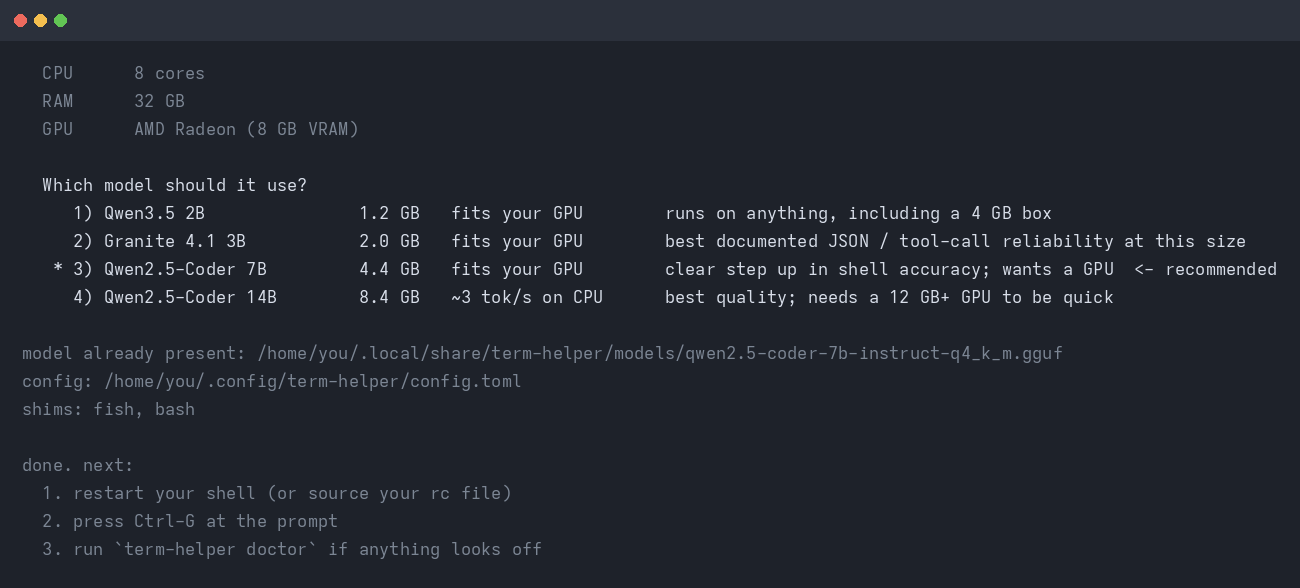
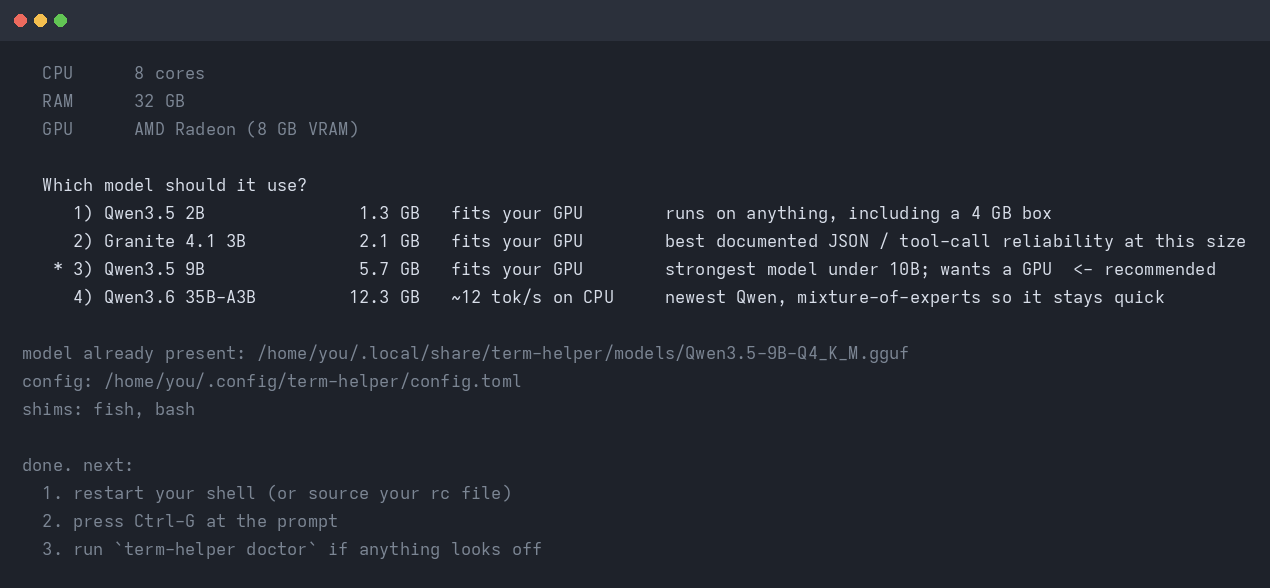
Refresh the model catalog to current releases
Qwen2.5-Coder is two generations old (Nov 2024). Replace it:
- medium: Qwen3.5 9B (Q4_K_M, 5.7 GB), the strongest model under 10B
- large: Qwen3.6 35B-A3B (UD-Q2_K_XL, 12.3 GB), newest Qwen, MoE
- tiny/small stay (Qwen3.5 2B, Granite 4.1 3B); sizes corrected

Also:
- disable the Qwen3.5/3.6 thinking mode with "--reasoning off" in the
  generated config, so it does not eat the token budget
- estimate() now uses active weights, so the MoE shows a realistic CPU rate
- generate the setup screenshot against a throwaway HOME: it downloads
  nothing and touches no real config, shims or systemd units

diff --git a/term_helper/setup.py b/term_helper/setup.py
@@ -29,7 +29,7 @@ CATALOG: list[dict] = [
         "name": "Qwen3.5 2B",
         "repo": "unsloth/Qwen3.5-2B-GGUF",
         "file": "Qwen3.5-2B-Q4_K_M.gguf",
-        "gb": 1.19,
+        "gb": 1.28,
         "ram_gb": 3,
         "vram_gb": 0,
         "note": "runs on anything, including a 4 GB box",
@@ -39,30 +39,31 @@ CATALOG: list[dict] = [
         "name": "Granite 4.1 3B",
         "repo": "ibm-granite/granite-4.1-3b-GGUF",
         "file": "granite-4.1-3b-Q4_K_M.gguf",
-        "gb": 1.96,
+        "gb": 2.10,
         "ram_gb": 4,
         "vram_gb": 0,
         "note": "best documented JSON / tool-call reliability at this size",
     },
     {
         "id": "medium",
-        "name": "Qwen2.5-Coder 7B",
-        "repo": "Qwen/Qwen2.5-Coder-7B-Instruct-GGUF",
-        "file": "qwen2.5-coder-7b-instruct-q4_k_m.gguf",
-        "gb": 4.36,
+        "name": "Qwen3.5 9B",
+        "repo": "unsloth/Qwen3.5-9B-GGUF",
+        "file": "Qwen3.5-9B-Q4_K_M.gguf",
+        "gb": 5.68,
         "ram_gb": 8,
         "vram_gb": 6,
-        "note": "clear step up in shell accuracy; wants a GPU",
+        "note": "strongest model under 10B; wants a GPU",
     },
     {
         "id": "large",
-        "name": "Qwen2.5-Coder 14B",
-        "repo": "Qwen/Qwen2.5-Coder-14B-Instruct-GGUF",
-        "file": "qwen2.5-coder-14b-instruct-q4_k_m.gguf",
-        "gb": 8.37,
+        "name": "Qwen3.6 35B-A3B",
+        "repo": "unsloth/Qwen3.6-35B-A3B-GGUF",
+        "file": "Qwen3.6-35B-A3B-UD-Q2_K_XL.gguf",
+        "gb": 12.29,
+        "active_gb": 2.0,          # mixture-of-experts: ~3B active per token
         "ram_gb": 16,
         "vram_gb": 12,
-        "note": "best quality; needs a 12 GB+ GPU to be quick",
+        "note": "newest Qwen, mixture-of-experts so it stays quick",
     },
 ]
 
@@ -128,7 +129,9 @@ def recommend(specs: Specs) -> str:
 def estimate(specs: Specs, entry: dict) -> str:
     if specs.vram_gb and entry["gb"] <= specs.vram_gb * 0.8:
         return "fits your GPU"
-    rate = 25.0 / entry["gb"]          # rough CPU, memory-bandwidth bound
+    # CPU speed tracks the active weights, which is much smaller for a MoE.
+    weight = entry.get("active_gb", entry["gb"])
+    rate = 25.0 / weight               # rough CPU, memory-bandwidth bound
     return f"~{max(1, round(rate))} tok/s on CPU"
 
 
@@ -245,7 +248,7 @@ search_results = 5
 [server.suggest]
 base_url = "http://127.0.0.1:8080"
 model = "{model_name}"
-extra_args = ["-ngl", "{99 if on_gpu else 0}", "--ctx-size", "{8192 if on_gpu else 4096}"]
+extra_args = ["-ngl", "{99 if on_gpu else 0}", "--ctx-size", "{8192 if on_gpu else 4096}", "--reasoning", "off"]
 
 [models]
 """

diff --git a/tools/screenshots.py b/tools/screenshots.py
@@ -252,20 +252,33 @@ def _anonymize(text: str) -> str:
 
 def shot_setup() -> str:
     import subprocess
+    import tempfile
 
-    from term_helper import config
+    from term_helper import config, setup
 
-    # `setup` rewrites the config; put the user's copy back afterwards.
-    backup = config.CONFIG_PATH.read_bytes() if config.CONFIG_PATH.exists() else None
-    try:
+    real_binary = config.DATA_DIR / "llama.cpp" / "llama-server"
+    with tempfile.TemporaryDirectory() as tmp:
+        # Run setup against a throwaway HOME, so it downloads nothing and never
+        # touches the real config, shims or systemd units.
+        root = Path(tmp) / "home"
+        data = root / ".local" / "share" / "term-helper"
+        (data / "models").mkdir(parents=True)
+        for entry in setup.CATALOG:      # every model looks already present
+            (data / "models" / entry["file"]).write_bytes(b"")
+        (data / "llama.cpp").mkdir()
+        if real_binary.exists():
+            (data / "llama.cpp" / "llama-server").symlink_to(real_binary)
+        env = {
+            **os.environ,
+            "HOME": str(root),
+            "XDG_DATA_HOME": str(root / ".local" / "share"),
+            "XDG_CONFIG_HOME": str(root / ".config"),
+            "XDG_STATE_HOME": str(root / ".local" / "state"),
+            "PYTHONPATH": str(Path(__file__).resolve().parent.parent),
+        }
         proc = subprocess.run([sys.executable, "-m", "term_helper", "setup"],
-                              input="\n", capture_output=True, text=True,
-                              env={**os.environ,
-                                   "PYTHONPATH": str(Path(__file__).resolve().parent.parent)})
-    finally:
-        if backup is not None:
-            config.CONFIG_PATH.write_bytes(backup)
-    return _anonymize(proc.stderr)
+                              input="\n", capture_output=True, text=True, env=env)
+    return _anonymize(proc.stderr.replace(str(root), str(Path.home())))
 
 
 def shot_modes() -> str:

diff --git a/term_helper/config.py b/term_helper/config.py
@@ -71,8 +71,8 @@ search_results = 5
 
 [server.suggest]
 base_url = "http://127.0.0.1:8080"
-model = "qwen2.5-coder-14b"
-extra_args = ["-ngl", "99", "--ctx-size", "8192"]
+model = "Qwen3.6-35B-A3B-UD-Q2_K_XL"
+extra_args = ["-ngl", "99", "--ctx-size", "8192", "--reasoning", "off"]
 
 [models]
 # Explicit overrides, name -> absolute path to a .gguf file:

diff --git a/README.md b/README.md
@@ -116,14 +116,14 @@ Then restart your shell and press `Ctrl+G`.
 
 | | model | file | needs |
 |---|---|---|---|
-| tiny | Qwen3.5 2B | 1.2 GB | any machine, 4 GB RAM |
-| small | Granite 4.1 3B | 2.0 GB | 4 GB RAM |
-| medium | Qwen2.5-Coder 7B | 4.4 GB | 8 GB RAM, ideally a GPU |
-| large | Qwen2.5-Coder 14B | 8.4 GB | 16 GB RAM + 12 GB VRAM to be quick |
+| tiny | Qwen3.5 2B | 1.3 GB | any machine, 4 GB RAM |
+| small | Granite 4.1 3B | 2.1 GB | 4 GB RAM |
+| medium | Qwen3.5 9B | 5.7 GB | 8 GB RAM, ideally a GPU |
+| large | Qwen3.6 35B-A3B | 12.3 GB | 16 GB RAM + 12 GB VRAM to be quick |
 
-On a 16 GB AMD GPU the 14B generates at around 37 tok/s. On CPU alone it's
-closer to 3 tok/s, which is not pleasant. If you have no GPU, pick a small
-model.
+The large model is a mixture-of-experts, so only about 3B parameters are active
+per token; it stays usable even when part of it runs on CPU. If you have no GPU,
+pick a small model: CPU-only generation is a few tokens a second.
 
 ## Web search
 
